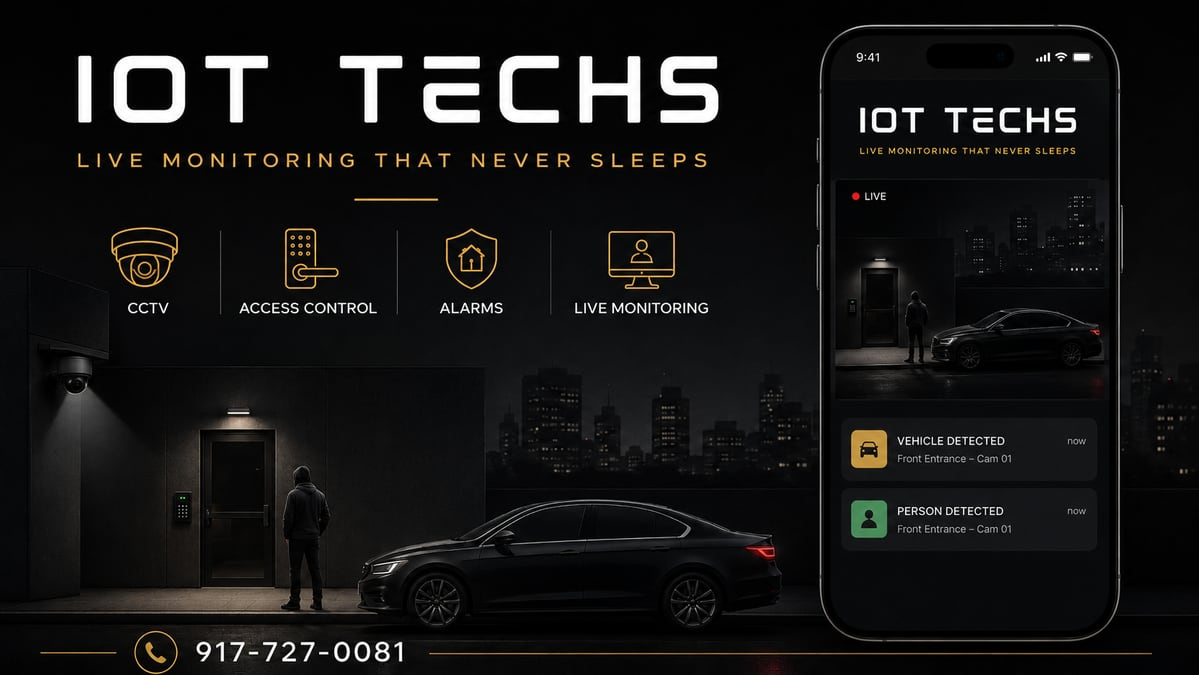
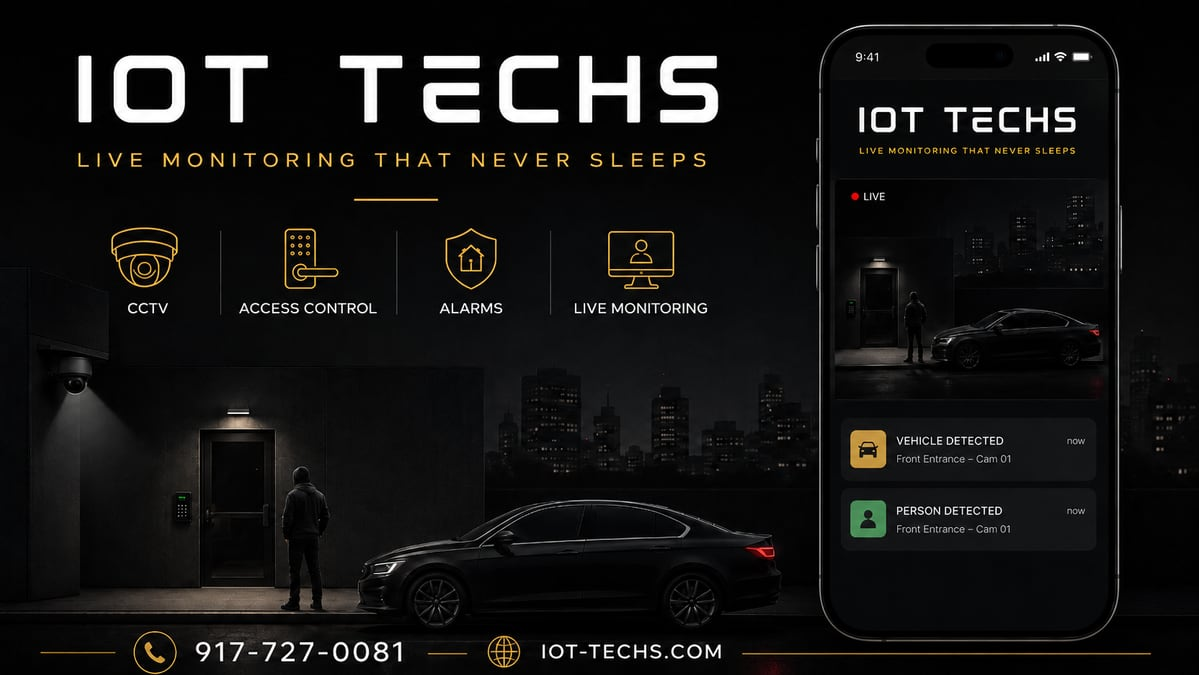
Brand tagline -> 'Make Tomorrow Safer Today' + refresh OG card to website version
Swap the brand tagline 'Security & automation, professionally installed' to 'Make
Tomorrow Safer Today' in the share headline (home.html og:title), the layout SEO/OG/
Twitter descriptions, the appointment-page footer, and the appointment-email footer.
(The email eyebrow 'Security & Automation' stays as a category label.)

Also refresh the OG image to the newer card that adds iot-techs.com beside the phone
number (1200x675, 72KB) across home + all non-project routes; source updated.

diff --git a/dashboard/public/home.html b/dashboard/public/home.html
@@ -7,7 +7,7 @@
 <meta name="description" content="IOT TECHS by La Vague Inc. — security camera, audio, networking, and access control installation across NYC &amp; NJ. Available 7 days a week. Proudly serving Port Authority, NYPD Traffic, and 1500+ locations. Request a demo today.">
 <!-- Social share preview (iMessage / SMS / social). Absolute image URL so scrapers can fetch it. -->
 <meta property="og:type" content="website">
-<meta property="og:title" content="IOT TECHS — Security &amp; automation, professionally installed">
+<meta property="og:title" content="IOT TECHS — Make Tomorrow Safer Today">
 <meta property="og:description" content="Security camera, audio, networking &amp; access control installation across NYC &amp; NJ.">
 <meta property="og:image" content="https://iot-techs.com/og-home.jpg">
 <meta property="og:image:width" content="1200">

diff --git a/dashboard/app/layout.jsx b/dashboard/app/layout.jsx
@@ -11,17 +11,17 @@ const fontMono = JetBrains_Mono({ subsets: ["latin"], weight: ["400", "500", "70
 export const metadata = {
   metadataBase: new URL(process.env.APP_URL || "https://iot-techs.com"),
   title: "IOT TECHS · Project Dashboard",
-  description: "Security & automation, professionally installed. Track your project from survey to completion.",
+  description: "Make tomorrow safer today. Track your project from survey to completion.",
   openGraph: {
     title: "IOT TECHS",
-    description: "Security & automation, professionally installed.",
+    description: "Make tomorrow safer today.",
     siteName: "IOT TECHS",
     type: "website",
   },
   twitter: {
     card: "summary_large_image",
     title: "IOT TECHS",
-    description: "Security & automation, professionally installed.",
+    description: "Make tomorrow safer today.",
   },
 };
 

diff --git a/dashboard/lib/email.js b/dashboard/lib/email.js
@@ -116,7 +116,7 @@ export function renderEmail({ heading, intro, lines = [], ctaLabel, ctaUrl, foot
             ${footNote ? `<p style="margin:20px 0 0;font-size:13px;line-height:1.5;color:#8a909c;">${esc(footNote)}</p>` : ""}
           </td></tr>
           <tr><td style="padding:16px 28px;background:#fafbfc;border-top:1px solid #eef0f3;">
-            <p style="margin:0;font-size:12px;color:#9aa0ac;">IOT TECHS · Security & automation, professionally installed.</p>
+            <p style="margin:0;font-size:12px;color:#9aa0ac;">IOT TECHS · Make tomorrow safer today.</p>
           </td></tr>
         </table>
       </td></tr>

diff --git a/dashboard/app/appt/[token]/appt-client.jsx b/dashboard/app/appt/[token]/appt-client.jsx
@@ -107,7 +107,7 @@ export default function ApptClient({ token, event, invalid, mode = "change", who
             </>
           )}
         </div>
-        <div style={S.foot}>IOT TECHS · Security &amp; automation, professionally installed.</div>
+        <div style={S.foot}>IOT TECHS · Make tomorrow safer today.</div>
       </div>
     </div>
   );
